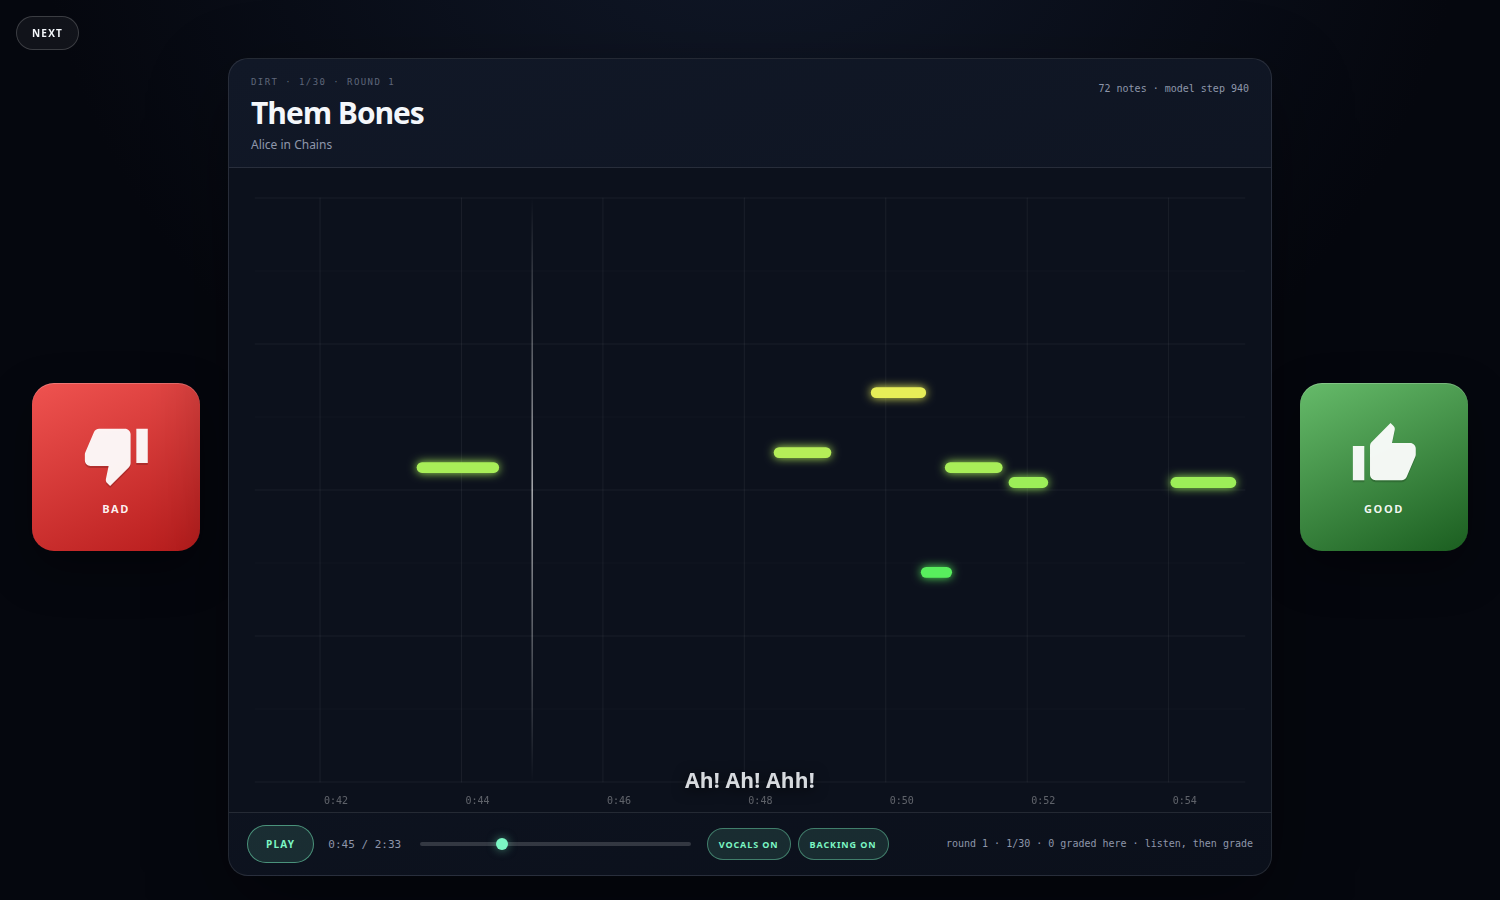
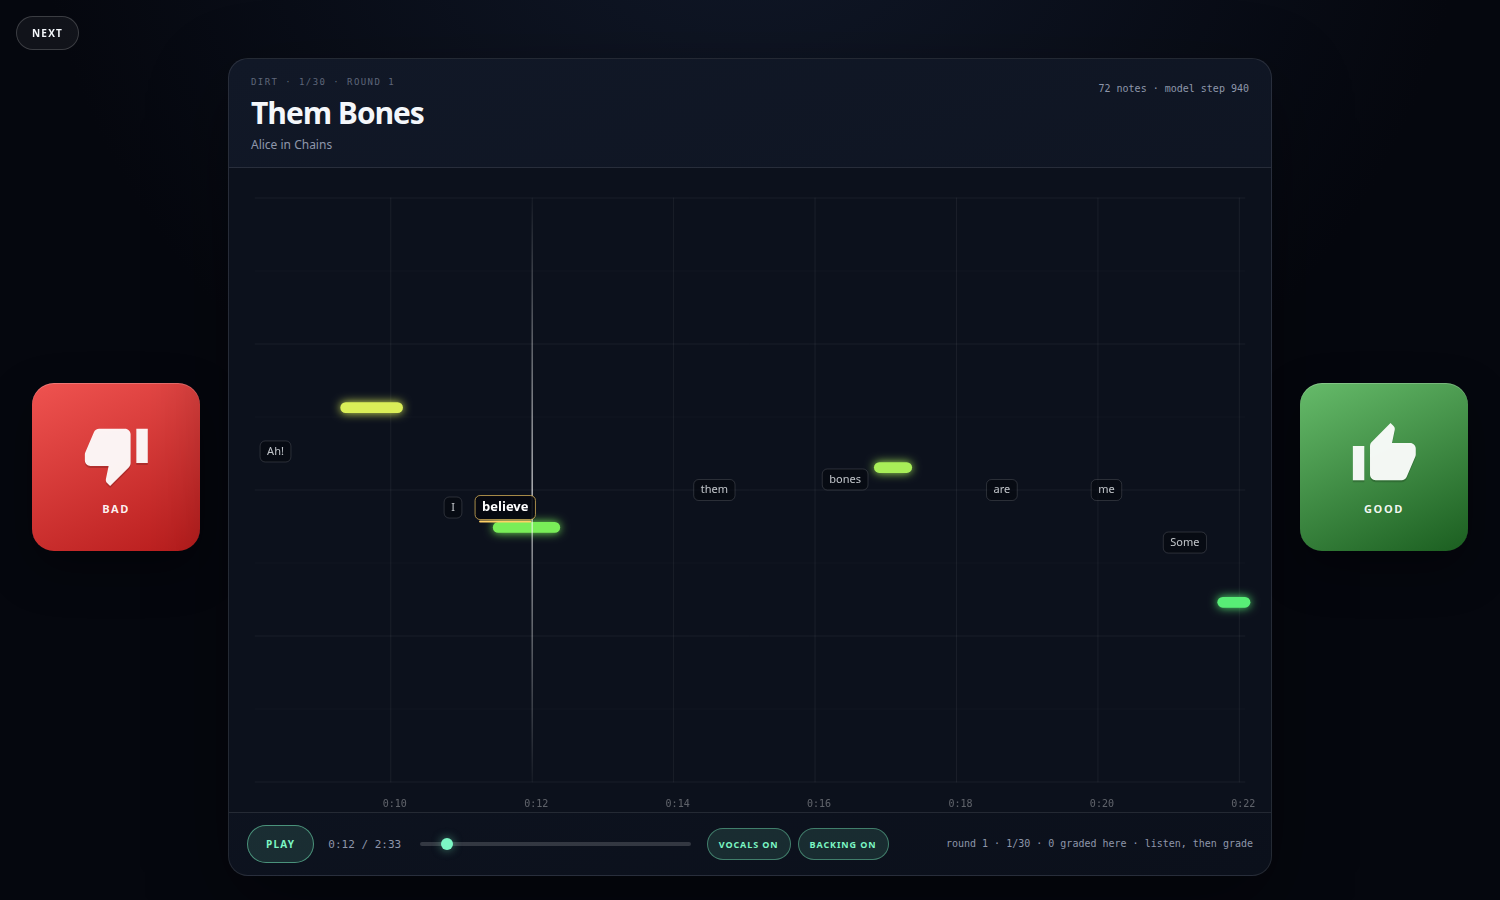
Draw mapped lyric word placements in the autogenerator UI
Generated maps already carried placedWords, but the browser preview collapsed lyrics into a single bottom line. The canvas now renders each placed word as a pill at its mapped time and vertical position, highlighting the active word with a gold underline exactly like the KaraokeMachine stage. The redundant bottom lyric line is gone. The docs screenshot now shows the placements.

diff --git a/automap/automap/ui_assets/app.js b/automap/automap/ui_assets/app.js
@@ -174,10 +174,56 @@ function visibleWindow() {
   return { start, span };
 }
 
-function lyricAt(time) {
-  if (!state || !Array.isArray(state.lines)) return '';
-  const line = state.lines.find((item) => time >= item.start - 0.2 && time <= item.end + 0.4);
-  return line ? line.text : '';
+function roundedRect(ctx, x, y, width, height, radius) {
+  const r = Math.min(radius, width / 2, height / 2);
+  ctx.beginPath();
+  ctx.moveTo(x + r, y);
+  ctx.arcTo(x + width, y, x + width, y + height, r);
+  ctx.arcTo(x + width, y + height, x, y + height, r);
+  ctx.arcTo(x, y + height, x, y, r);
+  ctx.arcTo(x, y, x + width, y, r);
+  ctx.closePath();
+}
+
+function drawPlacedWords(ctx, time, windowStart, windowSpan, xFor, padX, padY, innerW, innerH, width) {
+  if (!state || !Array.isArray(state.placedWords)) return;
+  ctx.textAlign = 'center';
+  ctx.textBaseline = 'middle';
+  for (const word of state.placedWords) {
+    if (word.start < windowStart - 1.5 || word.start > windowStart + windowSpan + 0.5) continue;
+    const text = String(word.text || '');
+    if (!text) continue;
+    const active = Math.abs(time - word.start) <= 0.45;
+    const display = text.length > 24 ? `${text.slice(0, 23)}…` : text;
+    ctx.font = active
+      ? '600 13px Inter, ui-sans-serif, system-ui, sans-serif'
+      : '500 11px Inter, ui-sans-serif, system-ui, sans-serif';
+    const pillWidth = Math.min(190, ctx.measureText(display).width + 14);
+    const pillHeight = active ? 24 : 21;
+    const half = pillWidth / 2 + 2;
+    const centerX = Math.max(padX + half, Math.min(width - padX - half, xFor(word.start)));
+    const rawY = padY + Math.max(0.02, Math.min(0.98, Number(word.y) || 0.5)) * innerH;
+    const centerY = Math.max(
+      padY + pillHeight / 2 + 2,
+      Math.min(padY + innerH - pillHeight / 2 - 2, rawY)
+    );
+    roundedRect(ctx, centerX - pillWidth / 2, centerY - pillHeight / 2, pillWidth, pillHeight, 5);
+    ctx.fillStyle = active ? 'rgba(5,8,15,0.90)' : 'rgba(5,8,15,0.62)';
+    ctx.fill();
+    ctx.strokeStyle = active ? 'rgba(255,209,102,0.65)' : 'rgba(255,255,255,0.14)';
+    ctx.lineWidth = 1;
+    ctx.stroke();
+    if (active) {
+      ctx.strokeStyle = '#ffd166';
+      ctx.lineWidth = 2;
+      ctx.beginPath();
+      ctx.moveTo(centerX - pillWidth / 2 + 5, centerY + pillHeight / 2 + 2);
+      ctx.lineTo(centerX + pillWidth / 2 - 5, centerY + pillHeight / 2 + 2);
+      ctx.stroke();
+    }
+    ctx.fillStyle = active ? '#ffffff' : 'rgba(244,247,251,0.78)';
+    ctx.fillText(display, centerX, centerY);
+  }
 }
 
 function resizeCanvas() {
@@ -273,7 +319,9 @@ function draw() {
   ctx.lineTo(playX, height - padY);
   ctx.stroke();
 
-  $('lyric').textContent = lyricAt(time);
+  // The mapped lyric labels sit at their actual time and vertical position.
+  drawPlacedWords(ctx, time, start, span, xFor, padX, padY, innerW, innerH, width);
+
   $('time').textContent = `${formatTime(time)} / ${formatTime(songDuration())}`;
 }
 

diff --git a/automap/automap/ui_assets/styles.css b/automap/automap/ui_assets/styles.css
@@ -135,20 +135,6 @@ h1 {
   background: #0c111c;
 }
 canvas { width: 100%; height: 100%; display: block; cursor: crosshair; }
-.lyric {
-  position: absolute;
-  left: 6%;
-  right: 6%;
-  bottom: 18px;
-  min-height: 24px;
-  text-align: center;
-  color: rgba(244, 247, 251, 0.88);
-  font-size: clamp(14px, 1.5vw, 21px);
-  font-weight: 600;
-  letter-spacing: 0.01em;
-  text-shadow: 0 2px 14px rgba(0, 0, 0, 0.8);
-  pointer-events: none;
-}
 .loading {
   position: absolute;
   inset: 0;

diff --git a/automap/automap/ui_assets/index.html b/automap/automap/ui_assets/index.html
@@ -29,7 +29,6 @@
 
       <div class="canvas-wrap">
         <canvas id="canvas"></canvas>
-        <div class="lyric" id="lyric"></div>
         <div class="loading" id="loading" hidden>
           <span class="spinner"></span>
           <span id="loading-text">Reinforcing and generating the next map…</span>

diff --git a/automap/README.md b/automap/README.md
@@ -32,7 +32,8 @@ targets are ignored; the model generates a new candidate from the vocal audio.
 3. Proposes note onsets from vocal onsets, word starts and voiced segments.
 4. A small neural policy scores each proposal and predicts pitch correction,
    onset correction and note duration.
-5. Writes a playable draft map:
+5. Writes a playable draft map with notes, ribbons, lyric lines, and placed
+   lyric words:
    - `assets/songs/<song-id>/maps/AI-Candidate.json`
    - an archive copy under `automap/candidates/<song-id>/`
 6. Plays the map in the grading window. A thumbs-down updates the policy and
@@ -86,7 +87,14 @@ This starts `http://127.0.0.1:8765/` and opens it in your browser.
 
 The window shows a **sidescrolling preview** of about 14 seconds around the
 playhead, so the notes are readable instead of squeezing the whole song into one
-view. The transport has:
+view.
+
+The map's placed lyric words are drawn as pills at their mapped times and
+vertical positions. The active word gets a gold underline. This is the same
+`placedWords` data the KaraokeMachine stage uses, so what you grade is what the
+app plays.
+
+The transport has:
 
 - **PLAY / PAUSE**
 - a whole-song seek bar
@@ -214,6 +222,9 @@ and never embeds audio in a map.
   fully generalize. The grading loop is how it adapts across the 30 targets.
 - The pitch tracker misses about 10 of the 184 approved notes; those notes are
   excluded from the supervised selection labels.
+- Lyric words are placed at their timed positions from the song's synced
+  lyrics. Their vertical positions follow nearby generated notes; the model does
+  not yet learn word y-positions from the approved map.
 - The target songs already have draft maps on disk, but those drafts are never
   used as training data or as generation seeds.
 - The generated map is a starting point, not a replacement for submitting a
